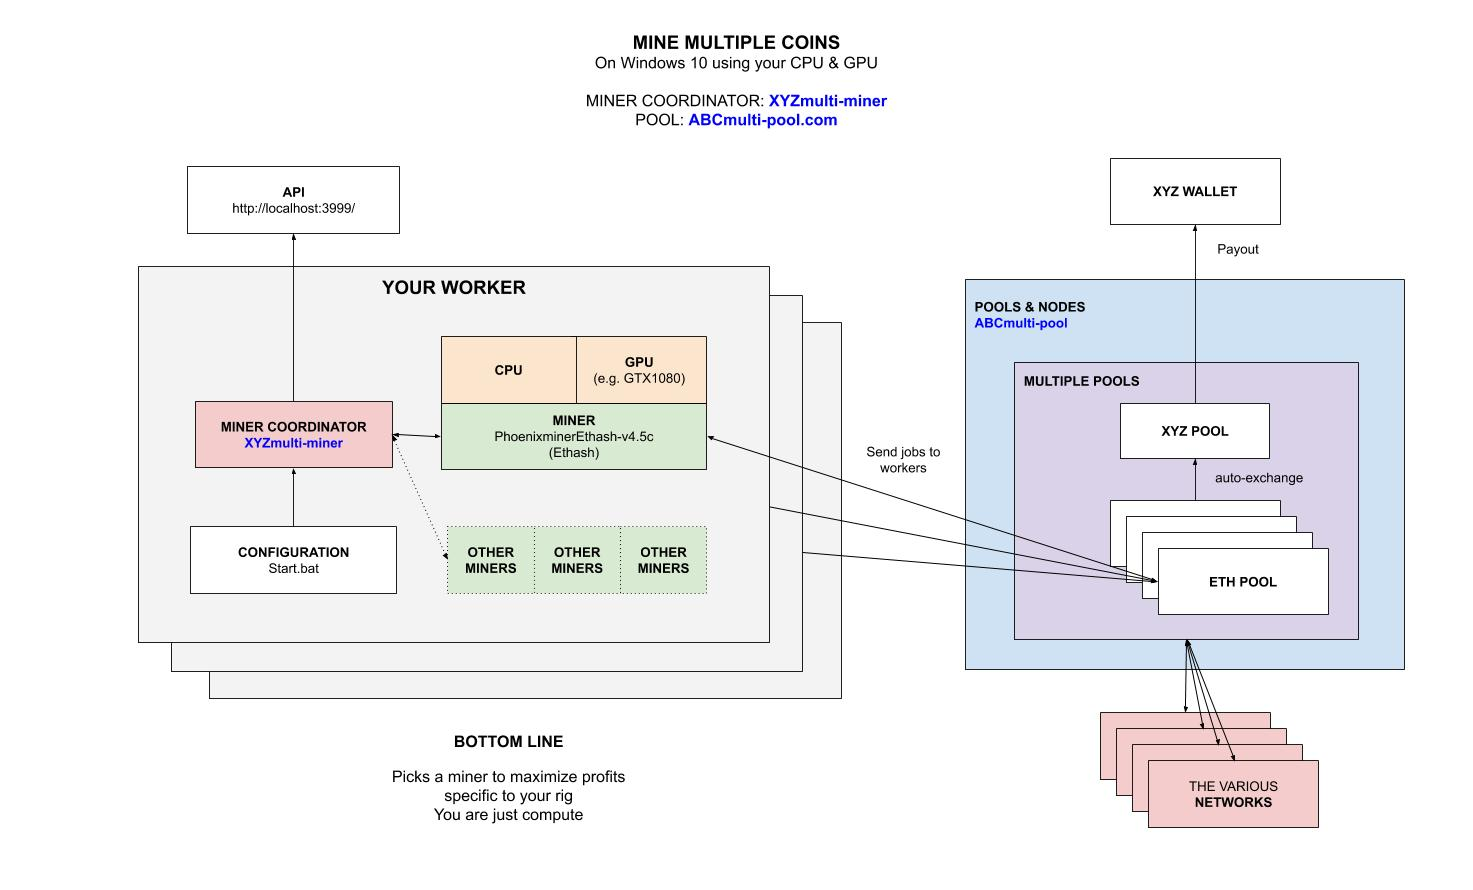
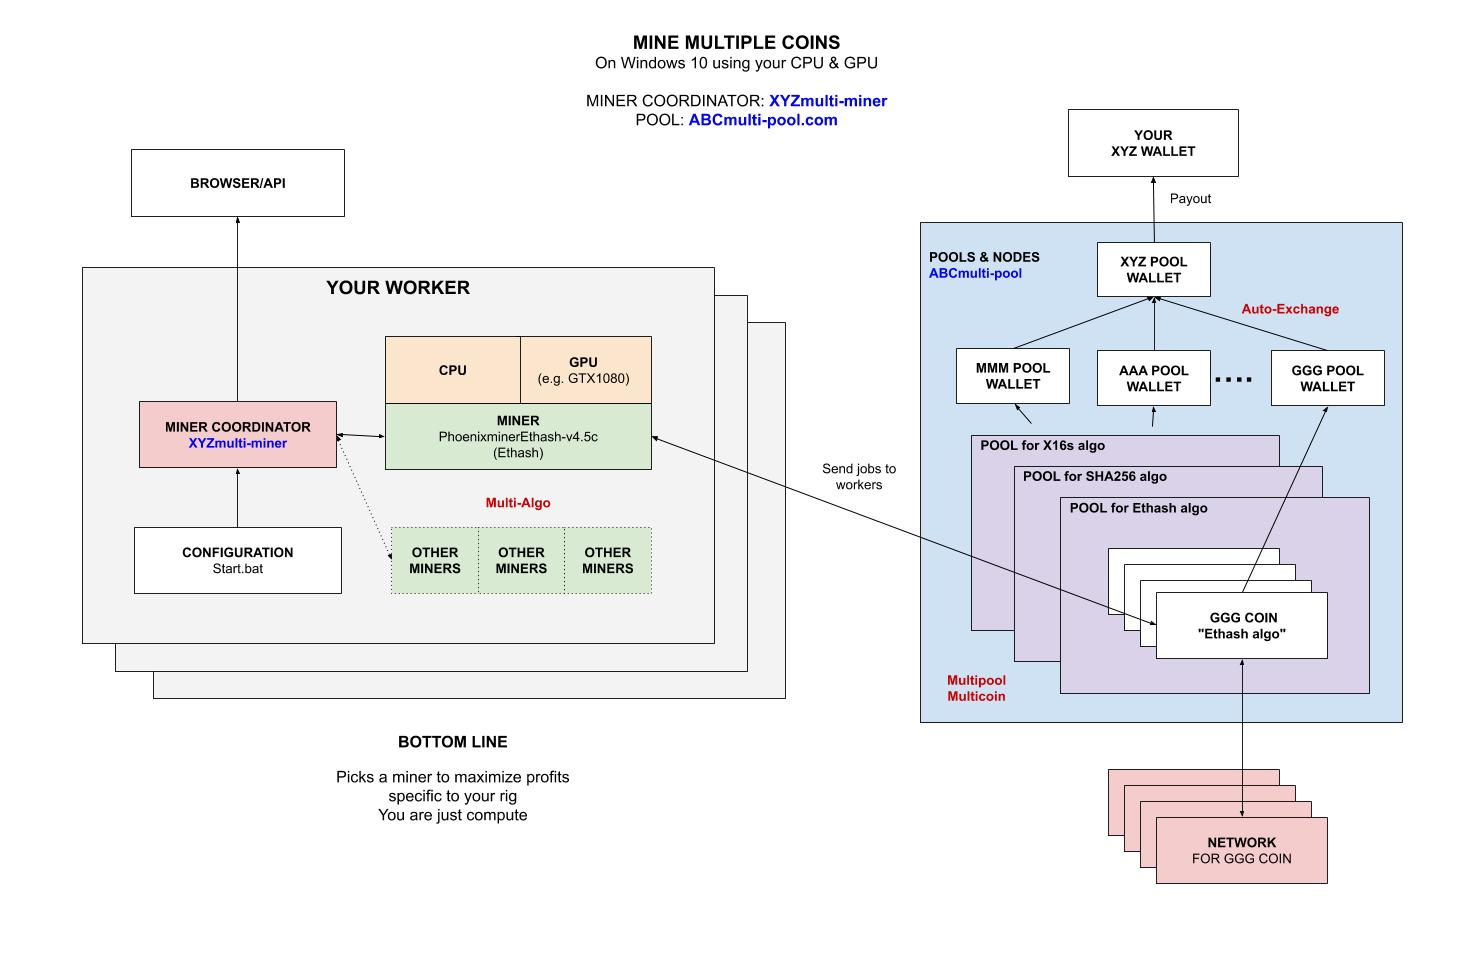
updated mining

diff --git a/other/mining-cryptocurrency/multiple-pools/mine-MULTICOINS-windows-gpu-awesome-miner-cheat-sheet/README.md b/other/mining-cryptocurrency/multiple-pools/mine-MULTICOINS-windows-gpu-awesome-miner-cheat-sheet/README.md
@@ -1,9 +1,9 @@
-# MINE MULTIPLE COINS WINDOWS GPU USING SNIFFDOGMINER CHEAT SHEET
+# MINE MULTIPLE COINS WINDOWS GPU USING AWESOME MINER CHEAT SHEET
 
-`mine-MULTI-windows-gpu-sniffdogminer` _will show you
+`mine-MULTI-windows-gpu-awesome-miner` _will show you
 how to mine for multiple coins
 on your Windows 10 GPU
-using `sniffdogminer` mining software
+using `awesome-miner` mining software
 connected to the `zergpool.com` pool._
 
 My other mining cheatsheets,
@@ -12,7 +12,7 @@ My other mining cheatsheets,
   * [mine-ZEC-macOS-cpu-zcashd](https://github.com/JeffDeCola/my-cheat-sheets/tree/master/other/mining-cryptocurrency/full-node/mine-ZEC-macOS-cpu-zcashd-cheat-sheet)
 * **MULTIPLE POOLS**
   * [mine-MULTICOINS-windows-gpu-multipoolminer](https://github.com/JeffDeCola/my-cheat-sheets/tree/master/other/mining-cryptocurrency/multiple-pools/mine-MULTICOINS-windows-gpu-multipoolminer-cheat-sheet)
-  * [mine-MULTICOINS-windows-gpu-sniffdogminer](https://github.com/JeffDeCola/my-cheat-sheets/tree/master/other/mining-cryptocurrency/multiple-pools/mine-MULTICOINS-windows-gpu-sniffdogminer-cheat-sheet)
+  * [mine-MULTICOINS-windows-gpu-awesome-miner](https://github.com/JeffDeCola/my-cheat-sheets/tree/master/other/mining-cryptocurrency/multiple-pools/mine-MULTICOINS-windows-gpu-awesome-miner-cheat-sheet)
     **YOU ARE HERE**
 * **POOLS**
   * [mine-BEAM-windows-gpu-lolMiner](https://github.com/JeffDeCola/my-cheat-sheets/tree/master/other/mining-cryptocurrency/pools/mine-BEAM-windows-gpu-lolMiner-cheat-sheet)
@@ -24,11 +24,11 @@ My other mining cheatsheets,
 
 Table of Contents,
 
-* [OVERVIEW](https://github.com/JeffDeCola/my-cheat-sheets/tree/master/other/mining-cryptocurrency/multiple-pools/mine-MULTI-windows-gpu-sniffdogminer-cheat-sheet#overview)
-* [MINER](https://github.com/JeffDeCola/my-cheat-sheets/tree/master/other/mining-cryptocurrency/multiple-pools/mine-MULTI-windows-gpu-sniffdogminer-cheat-sheet#miner)
-* [POOL](https://github.com/JeffDeCola/my-cheat-sheets/tree/master/other/mining-cryptocurrency/multiple-pools/mine-MULTI-windows-gpu-sniffdogminer-cheat-sheet#pool)
-* [RUN](https://github.com/JeffDeCola/my-cheat-sheets/tree/master/other/mining-cryptocurrency/multiple-pools/mine-MULTI-windows-gpu-sniffdogminer-cheat-sheet#run)
-* [MONITOR](https://github.com/JeffDeCola/my-cheat-sheets/tree/master/other/mining-cryptocurrency/multiple-pools/mine-MULTI-windows-gpu-sniffdogminer-cheat-sheet#monitor)
+* [OVERVIEW](https://github.com/JeffDeCola/my-cheat-sheets/tree/master/other/mining-cryptocurrency/multiple-pools/mine-MULTI-windows-gpu-awesome-miner-cheat-sheet#overview)
+* [MINER](https://github.com/JeffDeCola/my-cheat-sheets/tree/master/other/mining-cryptocurrency/multiple-pools/mine-MULTI-windows-gpu-awesome-miner-cheat-sheet#miner)
+* [POOL](https://github.com/JeffDeCola/my-cheat-sheets/tree/master/other/mining-cryptocurrency/multiple-pools/mine-MULTI-windows-gpu-awesome-miner-cheat-sheet#pool)
+* [RUN](https://github.com/JeffDeCola/my-cheat-sheets/tree/master/other/mining-cryptocurrency/multiple-pools/mine-MULTI-windows-gpu-awesome-miner-cheat-sheet#run)
+* [MONITOR](https://github.com/JeffDeCola/my-cheat-sheets/tree/master/other/mining-cryptocurrency/multiple-pools/mine-MULTI-windows-gpu-awesome-miner-cheat-sheet#monitor)
 
 Check out my cheat sheet on all the popular
 [cryptocurrency](https://github.com/JeffDeCola/my-cheat-sheets/tree/master/other/mining-cryptocurrency/cryptocurrency/cryptocurrency-cheat-sheet).
@@ -48,6 +48,8 @@ little bits of coins everywhere, the pool will automatically
 exchange all those coins into one wallet.
 I like to put everything into litecoin since its fast.
 
+They like to call these `Multialgo (Multi algorithm), Multicoin, Auto-Exchange Pools`.
+
 Here is an illustration of what we're going to do,
 
 ![IMAGE - mine-MULTICOINS-windows-gpu-XYZmulti-miner - IMAGE](../../../../docs/pics/mine-MULTICOINS-windows-gpu-XYZmulti-miner.jpg)
@@ -55,7 +57,7 @@ Here is an illustration of what we're going to do,
 ## MINER
 
 Grab the latest Windows binary from
-[https://github.com/pinpins/Sniffdogminer/releases](https://github.com/pinpins/Sniffdogminer/releases)
+[awesomeminer.com](https://www.awesomeminer.com/download)
 
 Place the folder anywhere on your rig.
 
@@ -69,16 +71,33 @@ of you wallet address.  Simple.
 
 ## RUN
 
-Create a `star.bat` file,
+Its installed in your system so just kick it off.
 
-```bash
+I suggest doing a benchmark first.
 
+Normally, you can just run because the software is all setup for
+your pool under `options -> profit switching`.  You just add your wallet.
+The default is BTC.
+
+If you want to payout to a particular wallet other than BTC like litecoin,
+add `c=LTC` in each of the pools under `options -> online services`.
+
+You can even get more selective if you want to create your own pools and pool groups.
+For example, I would like to mine FOLM (FLM) coin and put my coins into my FLM wallet
+using a SOLO pool.
+
+My switches for zergpool would be placed in `options -> pools`,
+
+```txt
+Pool URL: stratum+tcp://phi.mine.zergpool.com:8333
+Worker Name: Fpz2px36Ptaa7PKBK4HLA7DprDrqGNRsXN
+Worker password: c=FLM,mc=FLM,m=solo
 ```
 
 ## MONITOR
 
-You can locally monitor your mining software,
-
- [???](???)
+You can play around with the interface.
+[Awesomeminer.com](https://www.awesomeminer.com/download)
+is the best source of information.
 
 Thats it, you're mining and wasting electricity.

diff --git a/other/mining-cryptocurrency/full-node/mine-ZEC-macOS-cpu-zcashd-cheat-sheet/README.md b/other/mining-cryptocurrency/full-node/mine-ZEC-macOS-cpu-zcashd-cheat-sheet/README.md
@@ -13,7 +13,10 @@ My other mining cheatsheets,
 
 * **FULL NODE**
   * [mine-ZEC-macOS-cpu-zcashd](https://github.com/JeffDeCola/my-cheat-sheets/tree/master/other/mining-cryptocurrency/full-node/mine-ZEC-macOS-cpu-zcashd-cheat-sheet)
-  **YOU ARE HERE**
+    **YOU ARE HERE**
+* **MULTIPLE POOLS**
+  * [mine-MULTICOINS-windows-gpu-multipoolminer](https://github.com/JeffDeCola/my-cheat-sheets/tree/master/other/mining-cryptocurrency/multiple-pools/mine-MULTICOINS-windows-gpu-multipoolminer-cheat-sheet)
+  * [mine-MULTICOINS-windows-gpu-awesome-miner](https://github.com/JeffDeCola/my-cheat-sheets/tree/master/other/mining-cryptocurrency/multiple-pools/mine-MULTICOINS-windows-gpu-awesome-miner-cheat-sheet)
 * **POOLS**
   * [mine-BEAM-windows-gpu-lolMiner](https://github.com/JeffDeCola/my-cheat-sheets/tree/master/other/mining-cryptocurrency/pools/mine-BEAM-windows-gpu-lolMiner-cheat-sheet)
   * [mine-BTG-windows-gpu-gminer](https://github.com/JeffDeCola/my-cheat-sheets/tree/master/other/mining-cryptocurrency/pools/mine-BTG-windows-gpu-gminer-cheat-sheet)
@@ -57,8 +60,8 @@ Table of Contents,
   * [mine-ZEC-macOS-cpu-zcashd](https://github.com/JeffDeCola/my-cheat-sheets/tree/master/other/mining-cryptocurrency/full-node/mine-ZEC-macOS-cpu-zcashd-cheat-sheet)
     **YOU ARE HERE**
 * **MULTIPLE POOLS**
+  * [mine-MULTICOINS-windows-gpu-awesome-miner](https://github.com/JeffDeCola/my-cheat-sheets/tree/master/other/mining-cryptocurrency/multiple-pools/mine-MULTICOINS-windows-gpu-awesome-miner-cheat-sheet)
   * [mine-MULTICOINS-windows-gpu-multipoolminer](https://github.com/JeffDeCola/my-cheat-sheets/tree/master/other/mining-cryptocurrency/multiple-pools/mine-MULTICOINS-windows-gpu-multipoolminer-cheat-sheet)
-  * [mine-MULTICOINS-windows-gpu-sniffdogminer](https://github.com/JeffDeCola/my-cheat-sheets/tree/master/other/mining-cryptocurrency/multiple-pools/mine-MULTICOINS-windows-gpu-sniffdogminer-cheat-sheet)
 * **POOLS**
   * [mine-BEAM-windows-gpu-lolMiner](https://github.com/JeffDeCola/my-cheat-sheets/tree/master/other/mining-cryptocurrency/pools/mine-BEAM-windows-gpu-lolMiner-cheat-sheet)
   * [mine-BTG-windows-gpu-gminer](https://github.com/JeffDeCola/my-cheat-sheets/tree/master/other/mining-cryptocurrency/pools/mine-BTG-windows-gpu-gminer-cheat-sheet)

diff --git a/other/mining-cryptocurrency/multiple-pools/mine-MULTICOINS-windows-gpu-multipoolminer-cheat-sheet/README.md b/other/mining-cryptocurrency/multiple-pools/mine-MULTICOINS-windows-gpu-multipoolminer-cheat-sheet/README.md
@@ -13,7 +13,7 @@ My other mining cheatsheets,
 * **MULTIPLE POOLS**
   * [mine-MULTICOINS-windows-gpu-multipoolminer](https://github.com/JeffDeCola/my-cheat-sheets/tree/master/other/mining-cryptocurrency/multiple-pools/mine-MULTICOINS-windows-gpu-multipoolminer-cheat-sheet)
     **YOU ARE HERE**
-  * [mine-MULTICOINS-windows-gpu-sniffdogminer](https://github.com/JeffDeCola/my-cheat-sheets/tree/master/other/mining-cryptocurrency/multiple-pools/mine-MULTICOINS-windows-gpu-sniffdogminer-cheat-sheet)
+  * [mine-MULTICOINS-windows-gpu-awesome-miner](https://github.com/JeffDeCola/my-cheat-sheets/tree/master/other/mining-cryptocurrency/multiple-pools/mine-MULTICOINS-windows-gpu-awesome-miner-cheat-sheet)
 * **POOLS**
   * [mine-BEAM-windows-gpu-lolMiner](https://github.com/JeffDeCola/my-cheat-sheets/tree/master/other/mining-cryptocurrency/pools/mine-BEAM-windows-gpu-lolMiner-cheat-sheet)
   * [mine-BTG-windows-gpu-gminer](https://github.com/JeffDeCola/my-cheat-sheets/tree/master/other/mining-cryptocurrency/pools/mine-BTG-windows-gpu-gminer-cheat-sheet)
@@ -48,6 +48,8 @@ little bits of coins everywhere, the pool will automatically
 exchange all those coins into one wallet.
 I like to put everything into litecoin since its fast.
 
+They like to call these `Multialgo (Multi algorithm), Multicoin, Auto-Exchange Pools`.
+
 Here is an illustration of what we're going to do,
 
 ![IMAGE - mine-MULTICOINS-windows-gpu-XYZmulti-miner - IMAGE](../../../../docs/pics/mine-MULTICOINS-windows-gpu-XYZmulti-miner.jpg)
@@ -64,14 +66,12 @@ Place the folder anywhere on your rig.
 First, lets pick you pool. I registered at
 [miningpoolhub.com](https://miningpoolhub.com).
 
-There are other pools, but I choose this one.
-
 Now choose the wallet to put all your coins in aut-exchange.
 Add a Worker name and a password 'x' under hub worker.
 
 ## RUN
 
-Create a `star.bat` file,
+Create a `start.bat` file,
 
 ```bash
 set "command=& .\multipoolminer.ps1

diff --git a/other/mining-cryptocurrency/pools/mine-BTG-windows-gpu-gminer-cheat-sheet/README.md b/other/mining-cryptocurrency/pools/mine-BTG-windows-gpu-gminer-cheat-sheet/README.md
@@ -12,7 +12,7 @@ My other mining cheat sheets,
   * [mine-ZEC-macOS-cpu-zcashd](https://github.com/JeffDeCola/my-cheat-sheets/tree/master/other/mining-cryptocurrency/full-node/mine-ZEC-macOS-cpu-zcashd-cheat-sheet)
 * **MULTIPLE POOLS**
   * [mine-MULTICOINS-windows-gpu-multipoolminer](https://github.com/JeffDeCola/my-cheat-sheets/tree/master/other/mining-cryptocurrency/multiple-pools/mine-MULTICOINS-windows-gpu-multipoolminer-cheat-sheet)
-  * [mine-MULTICOINS-windows-gpu-sniffdogminer](https://github.com/JeffDeCola/my-cheat-sheets/tree/master/other/mining-cryptocurrency/multiple-pools/mine-MULTICOINS-windows-gpu-sniffdogminer-cheat-sheet)
+  * [mine-MULTICOINS-windows-gpu-awesome-miner](https://github.com/JeffDeCola/my-cheat-sheets/tree/master/other/mining-cryptocurrency/multiple-pools/mine-MULTICOINS-windows-gpu-awesome-miner-cheat-sheet)
 * **POOLS**
   * [mine-BEAM-windows-gpu-lolMiner](https://github.com/JeffDeCola/my-cheat-sheets/tree/master/other/mining-cryptocurrency/pools/mine-BEAM-windows-gpu-lolMiner-cheat-sheet)
   * [mine-BTG-windows-gpu-gminer](https://github.com/JeffDeCola/my-cheat-sheets/tree/master/other/mining-cryptocurrency/pools/mine-BTG-windows-gpu-gminer-cheat-sheet)

diff --git a/other/mining-cryptocurrency/pools/mine-RVN-windows-gpu-t-rex-cheat-sheet/README.md b/other/mining-cryptocurrency/pools/mine-RVN-windows-gpu-t-rex-cheat-sheet/README.md
@@ -12,7 +12,7 @@ My other mining cheat sheets,
   * [mine-ZEC-macOS-cpu-zcashd](https://github.com/JeffDeCola/my-cheat-sheets/tree/master/other/mining-cryptocurrency/full-node/mine-ZEC-macOS-cpu-zcashd-cheat-sheet)
 * **MULTIPLE POOLS**
   * [mine-MULTICOINS-windows-gpu-multipoolminer](https://github.com/JeffDeCola/my-cheat-sheets/tree/master/other/mining-cryptocurrency/multiple-pools/mine-MULTICOINS-windows-gpu-multipoolminer-cheat-sheet)
-  * [mine-MULTICOINS-windows-gpu-sniffdogminer](https://github.com/JeffDeCola/my-cheat-sheets/tree/master/other/mining-cryptocurrency/multiple-pools/mine-MULTICOINS-windows-gpu-sniffdogminer-cheat-sheet)
+  * [mine-MULTICOINS-windows-gpu-awesome-miner](https://github.com/JeffDeCola/my-cheat-sheets/tree/master/other/mining-cryptocurrency/multiple-pools/mine-MULTICOINS-windows-gpu-awesome-miner-cheat-sheet)
 * **POOLS**
   * [mine-BEAM-windows-gpu-lolMiner](https://github.com/JeffDeCola/my-cheat-sheets/tree/master/other/mining-cryptocurrency/pools/mine-BEAM-windows-gpu-lolMiner-cheat-sheet)
   * [mine-BTG-windows-gpu-gminer](https://github.com/JeffDeCola/my-cheat-sheets/tree/master/other/mining-cryptocurrency/pools/mine-BTG-windows-gpu-gminer-cheat-sheet)

diff --git a/other/mining-cryptocurrency/pools/mine-ZCL-windows-gpu-lolMiner-cheat-sheet/README.md b/other/mining-cryptocurrency/pools/mine-ZCL-windows-gpu-lolMiner-cheat-sheet/README.md
@@ -12,7 +12,7 @@ My other mining cheat sheets,
   * [mine-ZEC-macOS-cpu-zcashd](https://github.com/JeffDeCola/my-cheat-sheets/tree/master/other/mining-cryptocurrency/full-node/mine-ZEC-macOS-cpu-zcashd-cheat-sheet)
 * **MULTIPLE POOLS**
   * [mine-MULTICOINS-windows-gpu-multipoolminer](https://github.com/JeffDeCola/my-cheat-sheets/tree/master/other/mining-cryptocurrency/multiple-pools/mine-MULTICOINS-windows-gpu-multipoolminer-cheat-sheet)
-  * [mine-MULTICOINS-windows-gpu-sniffdogminer](https://github.com/JeffDeCola/my-cheat-sheets/tree/master/other/mining-cryptocurrency/multiple-pools/mine-MULTICOINS-windows-gpu-sniffdogminer-cheat-sheet)
+  * [mine-MULTICOINS-windows-gpu-awesome-miner](https://github.com/JeffDeCola/my-cheat-sheets/tree/master/other/mining-cryptocurrency/multiple-pools/mine-MULTICOINS-windows-gpu-awesome-miner-cheat-sheet)
 * **POOLS**
   * [mine-BEAM-windows-gpu-lolMiner](https://github.com/JeffDeCola/my-cheat-sheets/tree/master/other/mining-cryptocurrency/pools/mine-BEAM-windows-gpu-lolMiner-cheat-sheet)
   * [mine-BTG-windows-gpu-gminer](https://github.com/JeffDeCola/my-cheat-sheets/tree/master/other/mining-cryptocurrency/pools/mine-BTG-windows-gpu-gminer-cheat-sheet)

diff --git a/other/mining-cryptocurrency/pools/mine-ZEC-windows-gpu-funakoshiMiner-cheat-sheet/README.md b/other/mining-cryptocurrency/pools/mine-ZEC-windows-gpu-funakoshiMiner-cheat-sheet/README.md
@@ -12,7 +12,7 @@ My other mining cheat sheets,
   * [mine-ZEC-macOS-cpu-zcashd](https://github.com/JeffDeCola/my-cheat-sheets/tree/master/other/mining-cryptocurrency/full-node/mine-ZEC-macOS-cpu-zcashd-cheat-sheet)
 * **MULTIPLE POOLS**
   * [mine-MULTICOINS-windows-gpu-multipoolminer](https://github.com/JeffDeCola/my-cheat-sheets/tree/master/other/mining-cryptocurrency/multiple-pools/mine-MULTICOINS-windows-gpu-multipoolminer-cheat-sheet)
-  * [mine-MULTICOINS-windows-gpu-sniffdogminer](https://github.com/JeffDeCola/my-cheat-sheets/tree/master/other/mining-cryptocurrency/multiple-pools/mine-MULTICOINS-windows-gpu-sniffdogminer-cheat-sheet)
+  * [mine-MULTICOINS-windows-gpu-awesome-miner](https://github.com/JeffDeCola/my-cheat-sheets/tree/master/other/mining-cryptocurrency/multiple-pools/mine-MULTICOINS-windows-gpu-awesome-miner-cheat-sheet)
 * **POOLS**
   * [mine-BEAM-windows-gpu-lolMiner](https://github.com/JeffDeCola/my-cheat-sheets/tree/master/other/mining-cryptocurrency/pools/mine-BEAM-windows-gpu-lolMiner-cheat-sheet)
   * [mine-BTG-windows-gpu-gminer](https://github.com/JeffDeCola/my-cheat-sheets/tree/master/other/mining-cryptocurrency/pools/mine-BTG-windows-gpu-gminer-cheat-sheet)

diff --git a/other/mining-cryptocurrency/pools/mine-ZEL-windows-gpu-gminer-cheat-sheet/README.md b/other/mining-cryptocurrency/pools/mine-ZEL-windows-gpu-gminer-cheat-sheet/README.md
@@ -12,7 +12,7 @@ My other mining cheat sheets,
   * [mine-ZEC-macOS-cpu-zcashd](https://github.com/JeffDeCola/my-cheat-sheets/tree/master/other/mining-cryptocurrency/full-node/mine-ZEC-macOS-cpu-zcashd-cheat-sheet)
 * **MULTIPLE POOLS**
   * [mine-MULTICOINS-windows-gpu-multipoolminer](https://github.com/JeffDeCola/my-cheat-sheets/tree/master/other/mining-cryptocurrency/multiple-pools/mine-MULTICOINS-windows-gpu-multipoolminer-cheat-sheet)
-  * [mine-MULTICOINS-windows-gpu-sniffdogminer](https://github.com/JeffDeCola/my-cheat-sheets/tree/master/other/mining-cryptocurrency/multiple-pools/mine-MULTICOINS-windows-gpu-sniffdogminer-cheat-sheet)
+  * [mine-MULTICOINS-windows-gpu-awesome-miner](https://github.com/JeffDeCola/my-cheat-sheets/tree/master/other/mining-cryptocurrency/multiple-pools/mine-MULTICOINS-windows-gpu-awesome-miner-cheat-sheet)
 * **POOLS**
   * [mine-BEAM-windows-gpu-lolMiner](https://github.com/JeffDeCola/my-cheat-sheets/tree/master/other/mining-cryptocurrency/pools/mine-BEAM-windows-gpu-lolMiner-cheat-sheet)
   * [mine-BTG-windows-gpu-gminer](https://github.com/JeffDeCola/my-cheat-sheets/tree/master/other/mining-cryptocurrency/pools/mine-BTG-windows-gpu-gminer-cheat-sheet)

diff --git a/other/mining-cryptocurrency/pools/mine-BEAM-windows-gpu-lolMiner-cheat-sheet/README.md b/other/mining-cryptocurrency/pools/mine-BEAM-windows-gpu-lolMiner-cheat-sheet/README.md
@@ -12,7 +12,7 @@ My other mining cheat sheets,
   * [mine-ZEC-macOS-cpu-zcashd](https://github.com/JeffDeCola/my-cheat-sheets/tree/master/other/mining-cryptocurrency/full-node/mine-ZEC-macOS-cpu-zcashd-cheat-sheet)
 * **MULTIPLE POOLS**
   * [mine-MULTICOINS-windows-gpu-multipoolminer](https://github.com/JeffDeCola/my-cheat-sheets/tree/master/other/mining-cryptocurrency/multiple-pools/mine-MULTICOINS-windows-gpu-multipoolminer-cheat-sheet)
-  * [mine-MULTICOINS-windows-gpu-sniffdogminer](https://github.com/JeffDeCola/my-cheat-sheets/tree/master/other/mining-cryptocurrency/multiple-pools/mine-MULTICOINS-windows-gpu-sniffdogminer-cheat-sheet)
+  * [mine-MULTICOINS-windows-gpu-awesome-miner](https://github.com/JeffDeCola/my-cheat-sheets/tree/master/other/mining-cryptocurrency/multiple-pools/mine-MULTICOINS-windows-gpu-awesome-miner-cheat-sheet)
 * **POOLS**
   * [mine-BEAM-windows-gpu-lolMiner](https://github.com/JeffDeCola/my-cheat-sheets/tree/master/other/mining-cryptocurrency/pools/mine-BEAM-windows-gpu-lolMiner-cheat-sheet)
     **YOU ARE HERE**

diff --git a/README.md b/README.md
@@ -411,7 +411,7 @@ quite a few years to finish._
 * MULTIPLE POOLS
 
   * [mine MULTIPLE COINS on windows gpu using multipoolminer](https://github.com/JeffDeCola/my-cheat-sheets/tree/master/other/mining-cryptocurrency/multiple-pools/mine-MULTICOINS-windows-gpu-multipoolminer-cheat-sheet)
-  * [mine MULTIPLE COINS on windows gpu using sniffdogminer](https://github.com/JeffDeCola/my-cheat-sheets/tree/master/other/mining-cryptocurrency/multiple-pools/mine-MULTICOINS-windows-gpu-sniffdogminer-cheat-sheet)
+  * [mine MULTIPLE COINS on windows gpu using awesome miner](https://github.com/JeffDeCola/my-cheat-sheets/tree/master/other/mining-cryptocurrency/multiple-pools/mine-MULTICOINS-windows-gpu-awesome-miner-cheat-sheet)
 
 * POOLS
 
